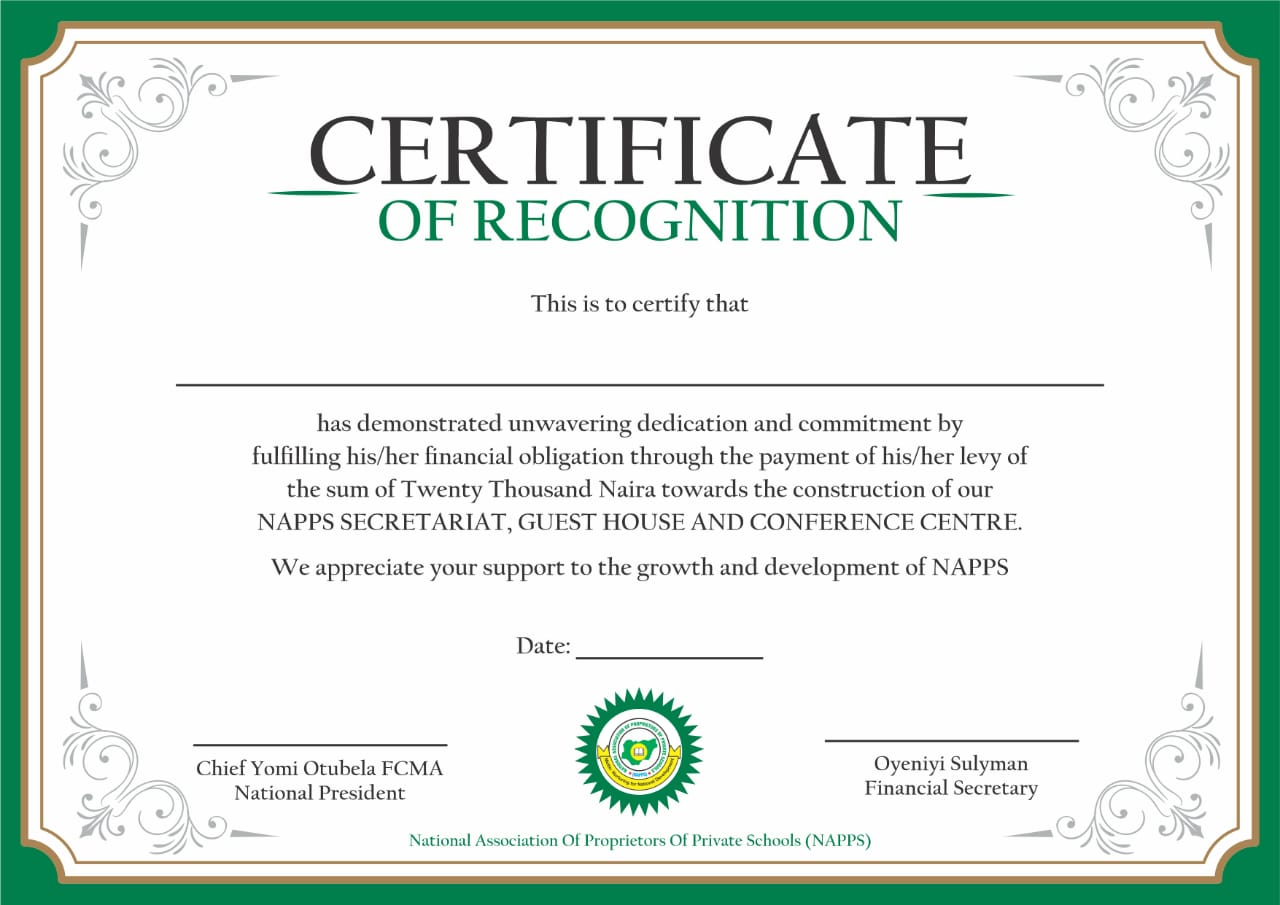
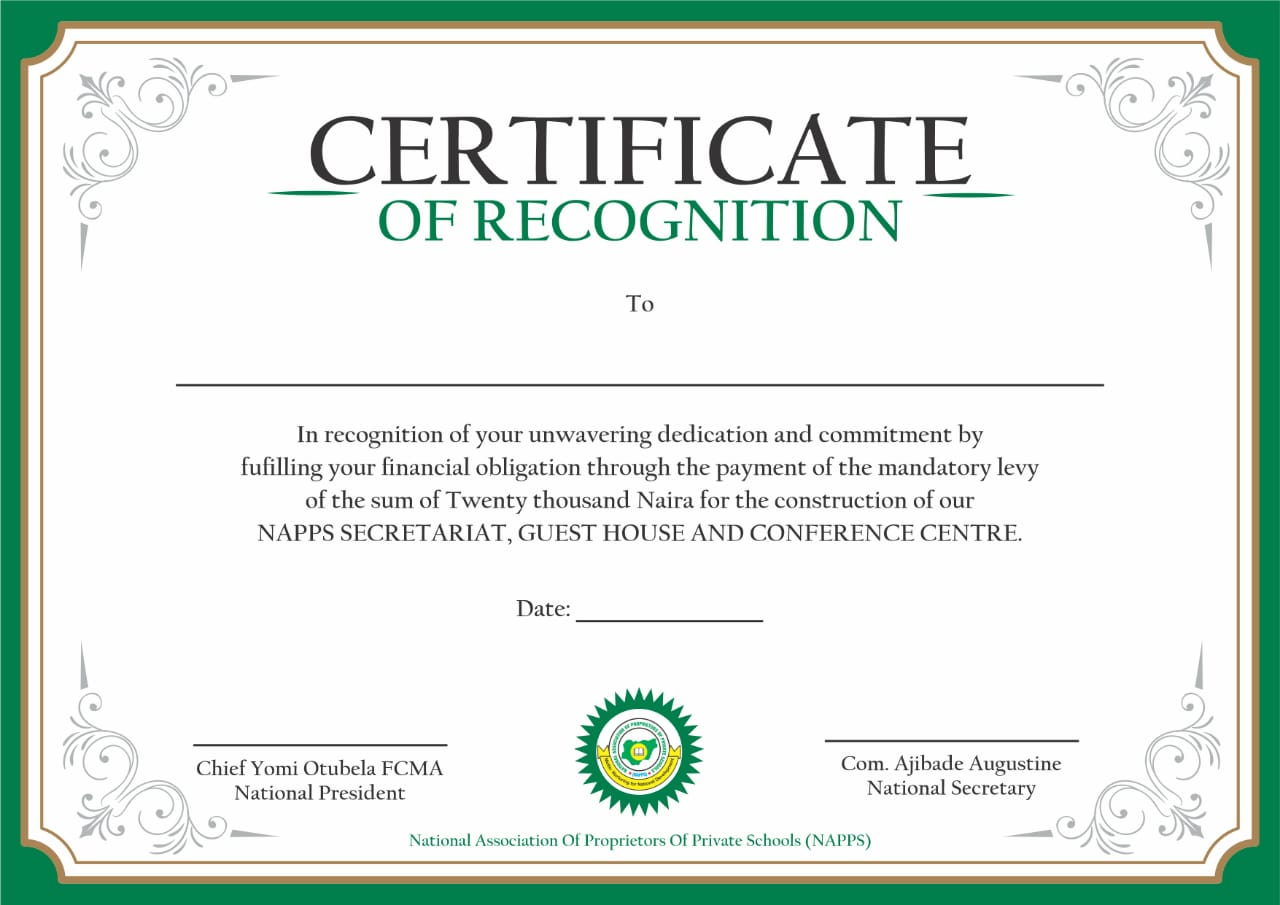
+

diff --git a/src/components/cert2/Cert.tsx b/src/components/cert2/Cert.tsx
@@ -1,0 +1,61 @@
+import QRCode from "qrcode";
+import React from "react";
+import cert from "../../assets/images/cert.png";
+import president from "../../assets/images/Napps_National_President.png";
+import secetary from "../../assets/images/Napps_National_Secetary.png";
+import certp from "../../assets/images/Napps_pay_1.jpeg";
+import { usersInfo } from "../../types";
+import { log } from "console";
+
+const Cert = ({ userData }: { userData: usersInfo | null }) => {
+  const [qr, setQr] = React.useState<string>("");
+
+  React.useEffect(() => {
+    (async () => {
+      const data = await QRCode.toDataURL(`Payment Id:${userData?.id}`);
+      console.log(userData);
+
+      console.log(data);
+
+      setQr(data);
+    })();
+  }, []);
+
+  return (
+    <div className=" relative w-full h-full  flex print:w-full ">
+      <img className="mx-auto w-[100%] h-[792px]" src={certp} alt="cert" />
+
+      {userData && (
+        <div className=" absolute print:z-20 left-[420px] print:left-[520px] h-[40px] w-[60%] mt-[285px]">
+          <p className="font-[600] text-3xl print:3xl text-[#343233]">
+            {userData?.name.first.toUpperCase()}{" "}
+            {userData?.name.last.toUpperCase()}
+          </p>
+        </div>
+      )}
+
+      <div className="absolute print:z-20 left-[510.5px] print:left-[570.5px] h-[40px] w-[60%] mt-[520.5px]">
+        <p className="font-[600] text-base print:xl text-[#343233]">
+          1st August 2023
+        </p>
+      </div>
+      <img
+        src={qr}
+        className="w-[10%] absolute bottom-[220px] print:bottom-[220px] right-[90px] print:right-[90px]"
+        alt=""
+      />
+      <img
+        src={president}
+        className="w-[16%] absolute bottom-[120px] print:bottom-[120px] left-[190px] print:left-[190px]"
+        alt=""
+      />
+      <img
+        src={secetary}
+        className="w-[12%] absolute bottom-[140px] print:bottom-[140px] right-[190px] print:right-[190px]"
+        alt=""
+      />
+    </div>
+  );
+};
+
+export default Cert;

diff --git a/src/components/cert/Cert.tsx b/src/components/cert/Cert.tsx
@@ -2,6 +2,8 @@ import QRCode from "qrcode";
 import React from "react";
 import cert from "../../assets/images/cert.png";
 import certp from "../../assets/images/Napps_pay_2.jpeg";
+import president from "../../assets/images/Napps_National_President.png";
+import secetary from "../../assets/images/Napps_National_Secetary.png";
 import { usersInfo } from "../../types";
 import { log } from "console";
 
@@ -38,12 +40,22 @@ const Cert = ({ userData }: { userData: usersInfo | null }) => {
       </div>
       <div className="absolute print:z-20 left-[590.5px] print:left-[750.5px] h-[40px] w-[60%] mt-[510.5px]">
       <p className="font-[600] text-xl print:xl text-[#343233]">
-            1st August 2023
+            2nd August 2023
           </p>
       </div>
       <img
         src={qr}
-        className="w-[16%] print:width-[16%] absolute bottom-[90px] print:bottom-[90px] right-[120px] print:right-[120px]"
+        className="w-[12%] print:width-[16%] absolute bottom-[110px] print:bottom-[90px] right-[140px] print:right-[180px]"
+        alt=""
+      />
+            <img
+        src={president}
+        className="w-[16%] absolute bottom-[160px] print:bottom-[120px] left-[190px] print:left-[190px]"
+        alt=""
+      />
+      <img
+        src={secetary}
+        className="w-[9%] absolute bottom-[180px] print:bottom-[180px] right-[390px] print:right-[390px]"
         alt=""
       />
     </div>

diff --git a/src/pages/Certificate2.tsx b/src/pages/Certificate2.tsx
@@ -1,6 +1,6 @@
 import React, { useEffect, useRef, useState } from "react";
 import ReactToPrint from "react-to-print";
-import Certs from "../components/cert/Certs";
+import Certs from "../components/cert2/Certs";
 import { IFetchSucess } from "../types";
 import { useNavigate } from "react-router-dom";
 import loader from "../assets/images/loader.gif";
@@ -69,10 +69,10 @@ const Certificate = () => {
   return (
     <React.Fragment>
       <button
-        onClick={() => navigate("/")}
+        onClick={() => navigate("/certificates")}
         className="ml-5 transition-all duration-[.5s] mt-5 bg-black text-white hover:bg-green-500 sm:p-5 p-3 text-[.8rem] sm:text-[1rem] rounded lg:fixed left-0 mb-5 top-0 hidden lg:block "
       >
-        Back to Certificate 1
+        Certificate 2
       </button>
       {/* for mobile display */}
       <div className="h-screen bg-white flex justify-center items-center text-[1rem] md:text-[2rem] text-center lg:hidden fixed z-20 uppercase font-medium px-[20px]">

diff --git a/src/App.tsx b/src/App.tsx
@@ -1,8 +1,8 @@
 import React, { lazy, Suspense, useRef } from "react";
 import { useState } from "react";
-// const IdPage = lazy(() => import("./pages/IdPage"));
 import IdPage from "./pages/IdPage";
 const Certificate = lazy(() => import("./pages/Certificate"));
+const Certificate2 = lazy(() => import("./pages/Certificate2"));
 import { Route, Routes } from "react-router-dom";
 function App() {
   const [imgData, setImgData] = React.useState("");
@@ -14,18 +14,12 @@ function App() {
         <p className="h-screen flex items-center font-bold justify-center text-5xl">
           LOADING USER DATA ......
         </p>
-
-
-
-
-
-
-        
       }
     >
       <Routes>
-        <Route path="/" element={<IdPage />} />
+        <Route path="/" element={<Certificate2 />} />
         <Route path="/certificates" element={<Certificate />} />
+       
       </Routes>
     </Suspense>
   );

diff --git a/src/components/cert2/Certs.tsx b/src/components/cert2/Certs.tsx
@@ -1,0 +1,19 @@
+import React, { forwardRef, LegacyRef } from "react";
+import Cert from "./Cert";
+
+const Certs = forwardRef(
+  (
+    { userData }: { userData: any },
+    ref: LegacyRef<HTMLElement> | undefined
+  ) => {
+    return (
+      <figure className="mt-5 print:mt-0" ref={ref}>
+        <React.Fragment>
+          <Cert userData={userData} />
+        </React.Fragment>
+      </figure>
+    );
+  }
+);
+
+export default Certs;
